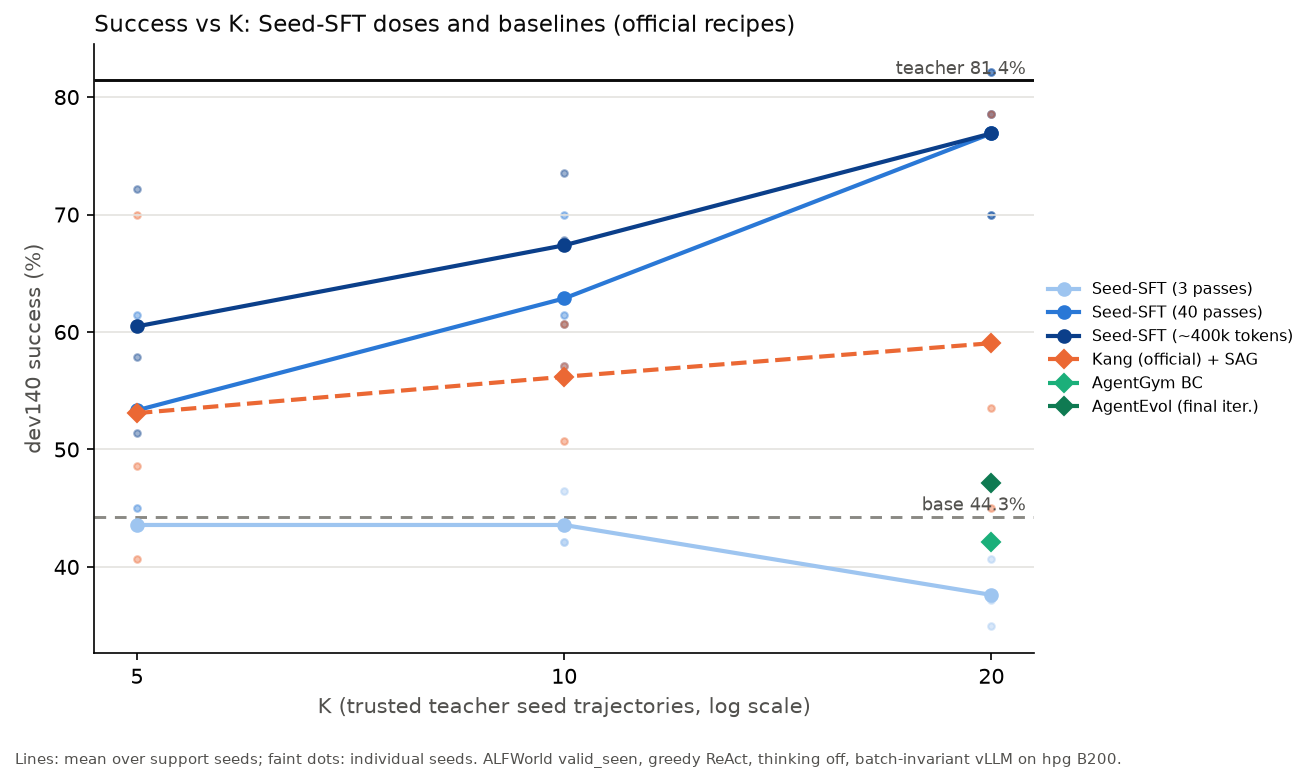
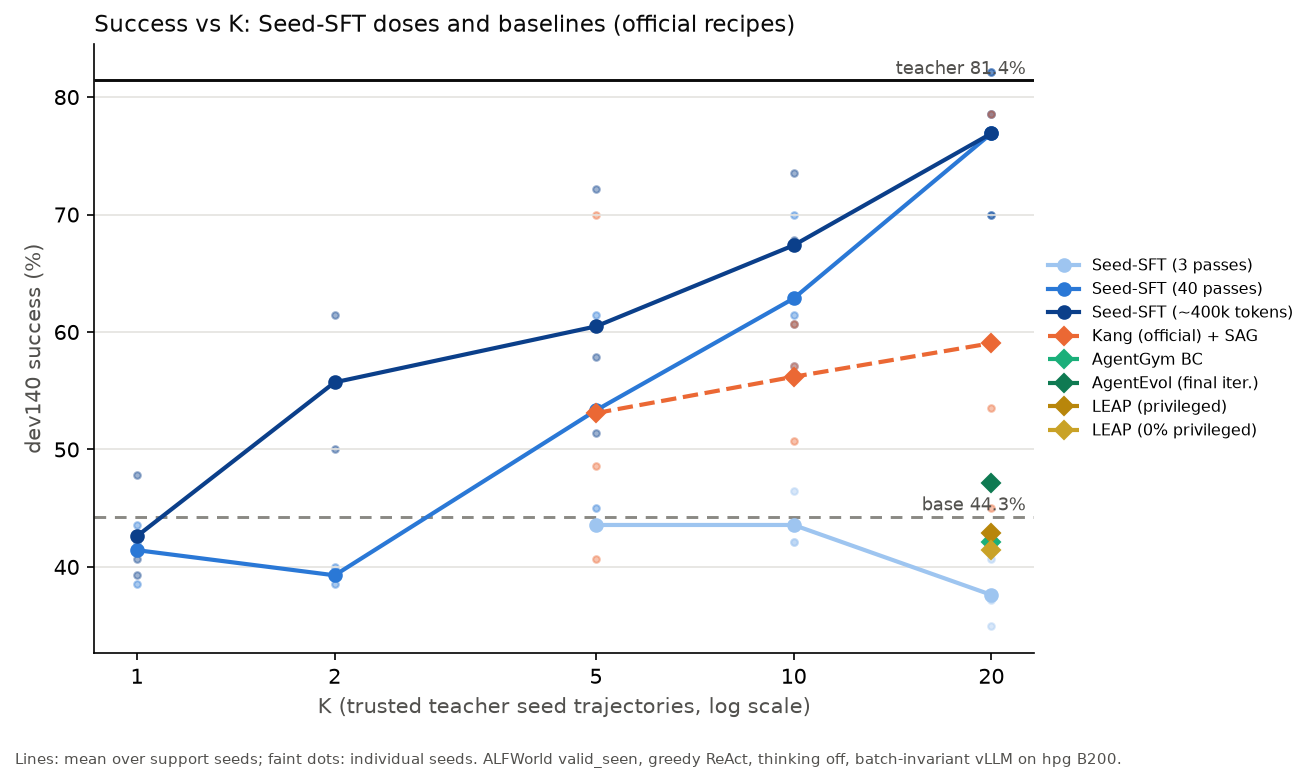
Main results: LEAP (both variants) at K20 s0; Seed-SFT K=1/2
Claude-Session: https://claude.ai/code/session_01AmxVgdDMucWuxpaHzsnp9Y

diff --git a/reports/figs/main-results/main_results.md b/reports/figs/main-results/main_results.md
@@ -1,10 +1,12 @@
 Teacher 114/140; base 62/140. Cells: mean successes over support seeds [per-seed values]; dev140, batch-invariant serving, hpg B200.
 
-| method | K=5 | K=10 | K=20 |
-|---|---|---|---|
-| Seed-SFT (3 passes) | 61.0 [61] | 61.0 [59, 65, 59] | 52.7 [49, 52, 57] |
-| Seed-SFT (40 passes) | 74.7 [63, 86, 75] | 88.0 [86, 80, 98] | 107.7 [115, 110, 98] |
-| Seed-SFT (~400k tokens) | 84.7 [72, 101, 81] | 94.3 [95, 85, 103] | 107.7 [115, 110, 98] |
-| Kang (official) + SAG | 74.3 [57, 98, 68] | 78.7 [80, 71, 85] | 82.7 [63, 75, 110] |
-| AgentGym BC | — | — | 59.0 [59] |
-| AgentEvol (final iter.) | — | — | 66.0 [66] |
+| method | K=1 | K=2 | K=5 | K=10 | K=20 |
+|---|---|---|---|---|---|
+| Seed-SFT (3 passes) | — | — | 61.0 [61] | 61.0 [59, 65, 59] | 52.7 [49, 52, 57] |
+| Seed-SFT (40 passes) | 58.0 [54, 59, 61] | 55.0 [54, 56] | 74.7 [63, 86, 75] | 88.0 [86, 80, 98] | 107.7 [115, 110, 98] |
+| Seed-SFT (~400k tokens) | 59.7 [67, 57, 55] | 78.0 [70, 86] | 84.7 [72, 101, 81] | 94.3 [95, 85, 103] | 107.7 [115, 110, 98] |
+| Kang (official) + SAG | — | — | 74.3 [57, 98, 68] | 78.7 [80, 71, 85] | 82.7 [63, 75, 110] |
+| AgentGym BC | — | — | — | — | 59.0 [59] |
+| AgentEvol (final iter.) | — | — | — | — | 66.0 [66] |
+| LEAP (privileged) | — | — | — | — | 60.0 [60] |
+| LEAP (0% privileged) | — | — | — | — | 58.0 [58] |
